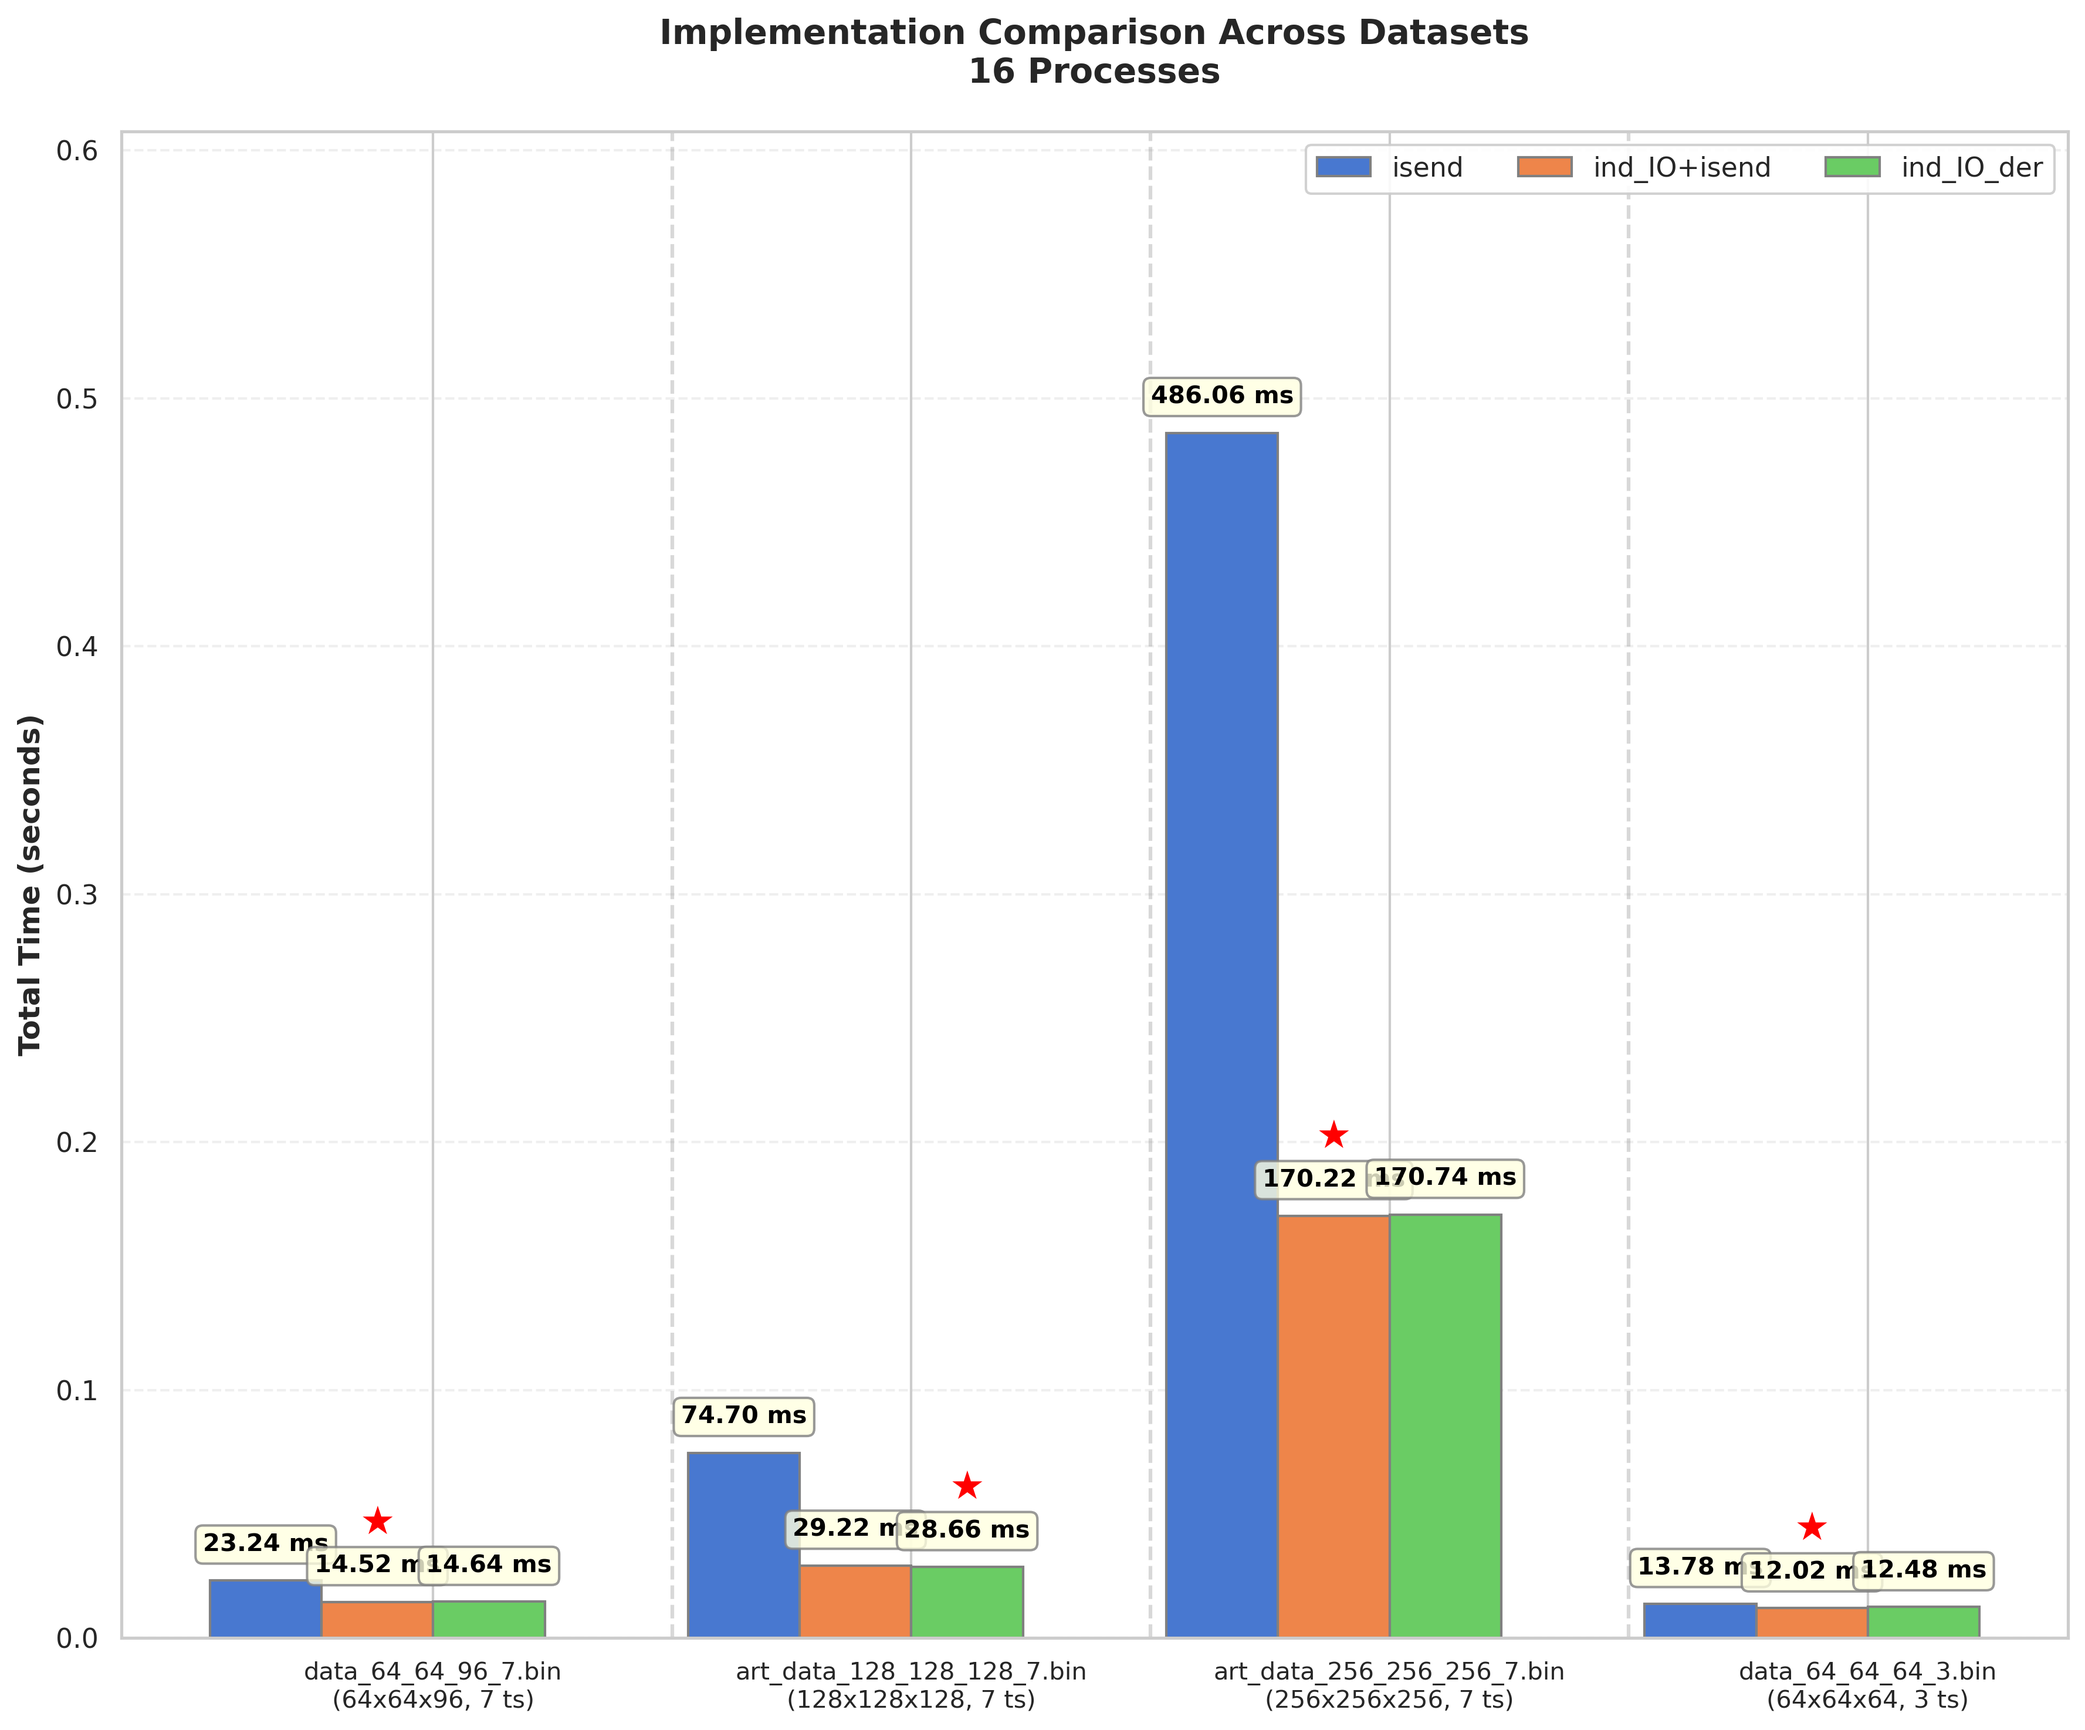
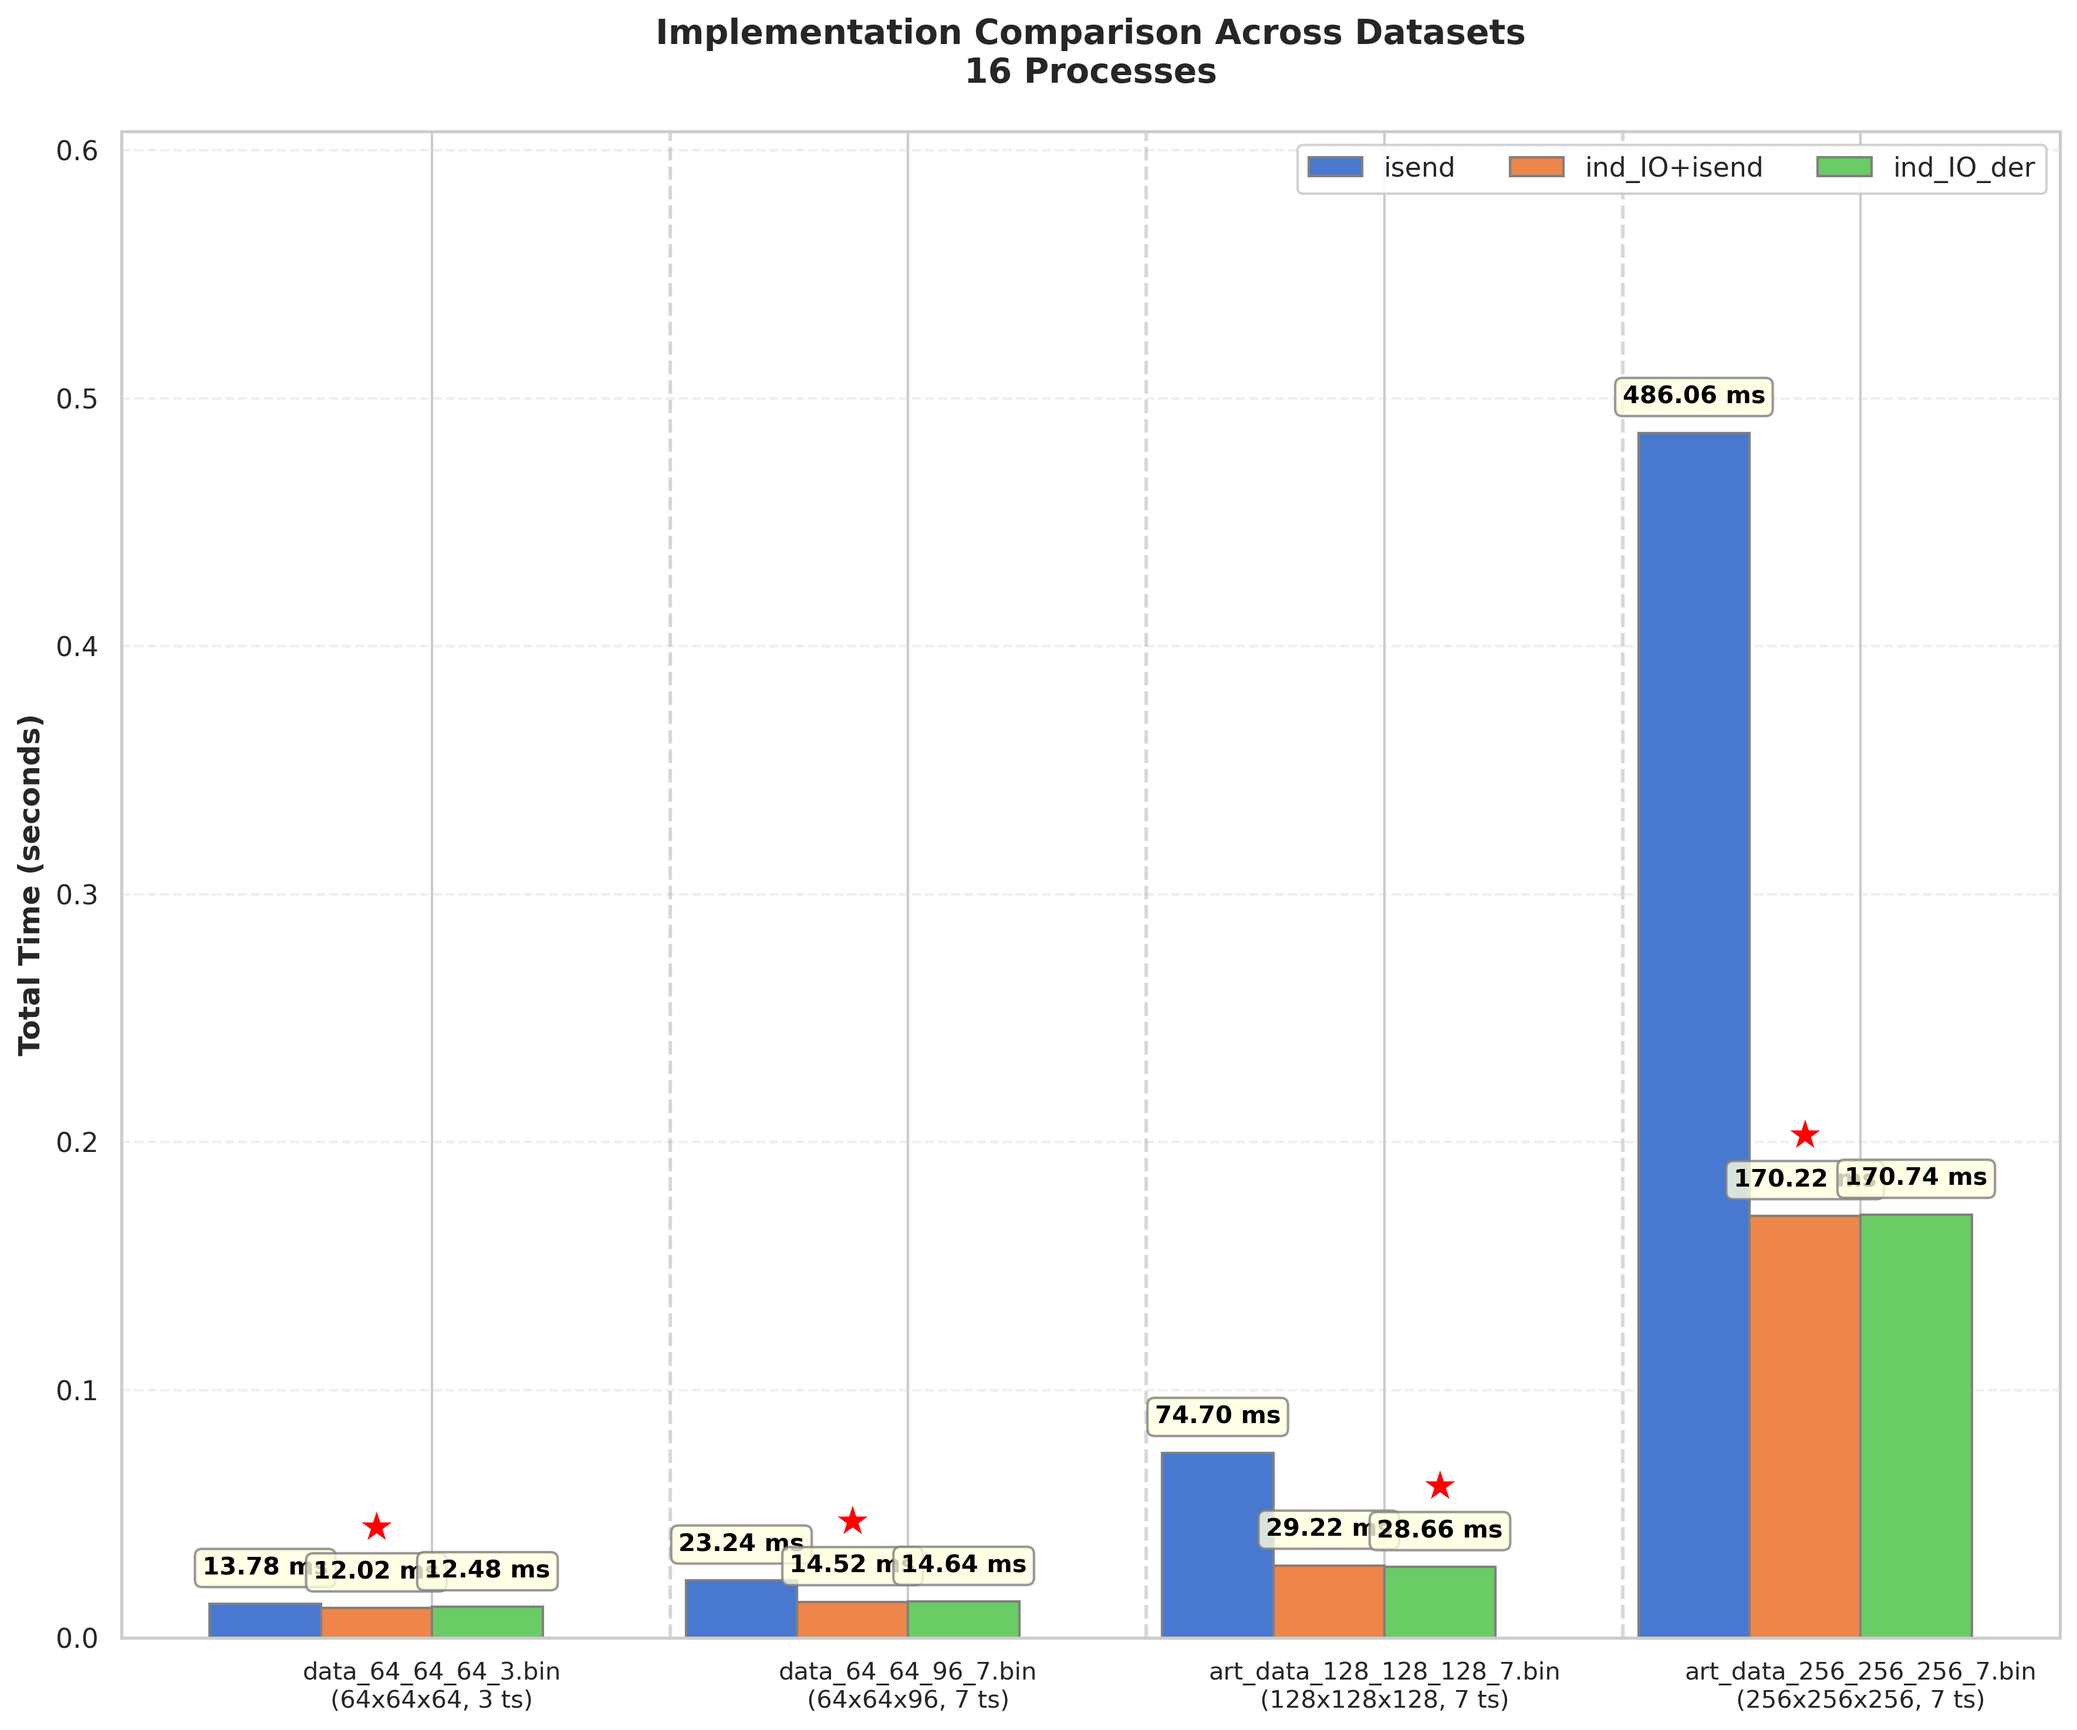
rearranged data in csv

diff --git a/README.md b/README.md
@@ -1,1 +1,131 @@
-# CS633-Assignment                                                                                                                                                      sadfasfd
+# Code Description
+
+## 1. Overview of the Code
+
+The program implements a parallel computing solution for processing time series data of 3D volumes using MPI. The workflow can be summarized as follows:
+
+1. **Initialization**: Parse command line arguments and initialize MPI environment
+2. **Domain Decomposition**: Each process calculates its own subdomain boundaries including ghost regions
+3. **Data Loading**: Either parallel file reading or root process reads and distributes data
+4. **Data Processing**: Each process analyzes its subdomain to identify:
+   - Local minima and maxima at each time step
+   - Global minimum and maximum at each time step
+5. **Result Collection**: Reduction operations aggregate results from all processes
+6. **Output Generation**: Root process writes results to the specified output file
+
+The code prioritizes performance through optimized I/O strategies, efficient domain decomposition with ghost regions, and non-blocking communication patterns.
+
+## 2. Detailed Description of Important Components
+
+### Domain Decomposition Function
+
+```c
+void calculateSubDomainBoundaries(int rank, int pX, int pY, int pZ, int nX, int nY, int nZ, SubDomain* subdomain)
+```
+
+**Logic**:
+This function calculates the portion of the 3D domain assigned to each process, including ghost regions for proper local minima/maxima detection. It first determines the process's position in the 3D process grid, then calculates its subdomain boundaries and adds ghost cells where needed (except at global domain boundaries).
+
+**Arguments**:
+- `rank`: Process ID in the MPI communicator
+- `pX, pY, pZ`: Number of processes in each dimension
+- `nX, nY, nZ`: Total grid size in each dimension
+- `subdomain`: Output structure to store calculated boundaries
+
+**Outputs**:
+Populates the `subdomain` structure with:
+- Regular domain boundaries (`startX/Y/Z`, `endX/Y/Z`, `width/height/depth`)
+- Extended domain boundaries including ghost regions (`tempStartX/Y/Z`, `tempEndX/Y/Z`, `tempWidth/height/depth`)
+
+### Optimized Parallel I/O
+
+```c
+float* readInputDataParallel_Level2(const char* inputFile, const SubDomain* subdomain,
+                                   int nX, int nY, int nZ, int timeSteps)
+```
+
+**Logic**:
+Implements efficient parallel I/O using MPI-IO with derived datatypes. Each process reads only its required portion of the file (including ghost regions) directly into its local memory. The function creates a custom MPI datatype that represents the 4D subarray (3D space + time) required by the process.
+
+**Arguments**:
+- `inputFile`: Path to the input data file
+- `subdomain`: Process's subdomain information
+- `nX, nY, nZ`: Global domain dimensions
+- `timeSteps`: Number of time steps in the data
+
+**Outputs**:
+Returns a float array containing the process's portion of the data (including ghost cells) for all time steps.
+
+### Data Distribution
+
+```c
+float* distributeData(int rank, const SubDomain* subdomain, float* globalData,
+                     int nX, int nY, int nZ, int timeSteps, int pX, int pY, int pZ)
+```
+
+**Logic**:
+Used for scenarios with many processes where parallel I/O might be inefficient. The root process reads the entire dataset and distributes appropriate portions to each process using non-blocking communication. This function employs `MPI_Isend` to overlap communication and uses separate buffers for each receiving process to avoid data corruption.
+
+**Arguments**:
+- `rank`: Process ID in the MPI communicator
+- `subdomain`: Process's subdomain information
+- `globalData`: Complete dataset (only used by rank 0)
+- `nX, nY, nZ`: Global domain dimensions
+- `timeSteps`: Number of time steps
+- `pX, pY, pZ`: Process grid dimensions
+
+**Outputs**:
+Returns a float array containing the process's portion of the data for all time steps.
+
+### Local Data Processing
+
+```c
+void processLocalData(float* localData, const SubDomain* subdomain, TimeSeriesResults* results, int timeSteps)
+```
+
+**Logic**:
+Analyzes the local subdomain data to count local minima/maxima and find extreme values at each time step. For each point in the actual subdomain (excluding ghost cells), it checks if the point is a local minimum or maximum by comparing with its six neighbors. The function also tracks global minimum and maximum values.
+
+**Arguments**:
+- `localData`: Process's portion of the data including ghost regions
+- `subdomain`: Process's subdomain information
+- `results`: Structure to store computation results
+- `timeSteps`: Number of time steps
+
+**Outputs**:
+Populates the `results` structure with counts of local minima/maxima and extreme values for each time step.
+
+### Local Extrema Detection
+
+```c
+bool isLocalMinimum(float* data, int x, int y, int z, int width, int height, int depth, int time, int timeSteps)
+bool isLocalMaximum(float* data, int x, int y, int z, int width, int height, int depth, int time, int timeSteps)
+```
+
+**Logic**:
+These functions determine if a point is a local minimum or maximum by comparing its value with all six neighboring points (along x, y, and z axes). For a minimum, the point must be strictly smaller than all neighbors; for a maximum, strictly larger.
+
+**Arguments**:
+- `data`: Local data array
+- `x, y, z`: Coordinates of the point to check
+- `width, height, depth`: Dimensions of the local data volume
+- `time`: Current time step being processed
+- `timeSteps`: Total number of time steps
+
+**Outputs**:
+Returns `true` if the point is a local minimum/maximum, `false` otherwise.
+
+### Results Aggregation and Output
+
+```c
+// Result reduction and output sections in main()
+```
+
+**Logic**:
+After local processing, the code uses `MPI_Reduce` operations to aggregate results across all processes. For minima/maxima counts, it uses `MPI_SUM` to add up all local counts. For global minimum and maximum values, it uses `MPI_MIN` and `MPI_MAX` operations respectively. Finally, timing information is gathered using `MPI_MAX` to report the worst-case performance.
+
+The root process (rank 0) then writes the consolidated results to the specified output file in the required format.
+
+### Memory Management
+
+The code employs a structured approach to memory management with dedicated allocation and deallocation functions for result data structures. It includes error checking to prevent memory leaks and uses temporary buffers for efficient communication.
